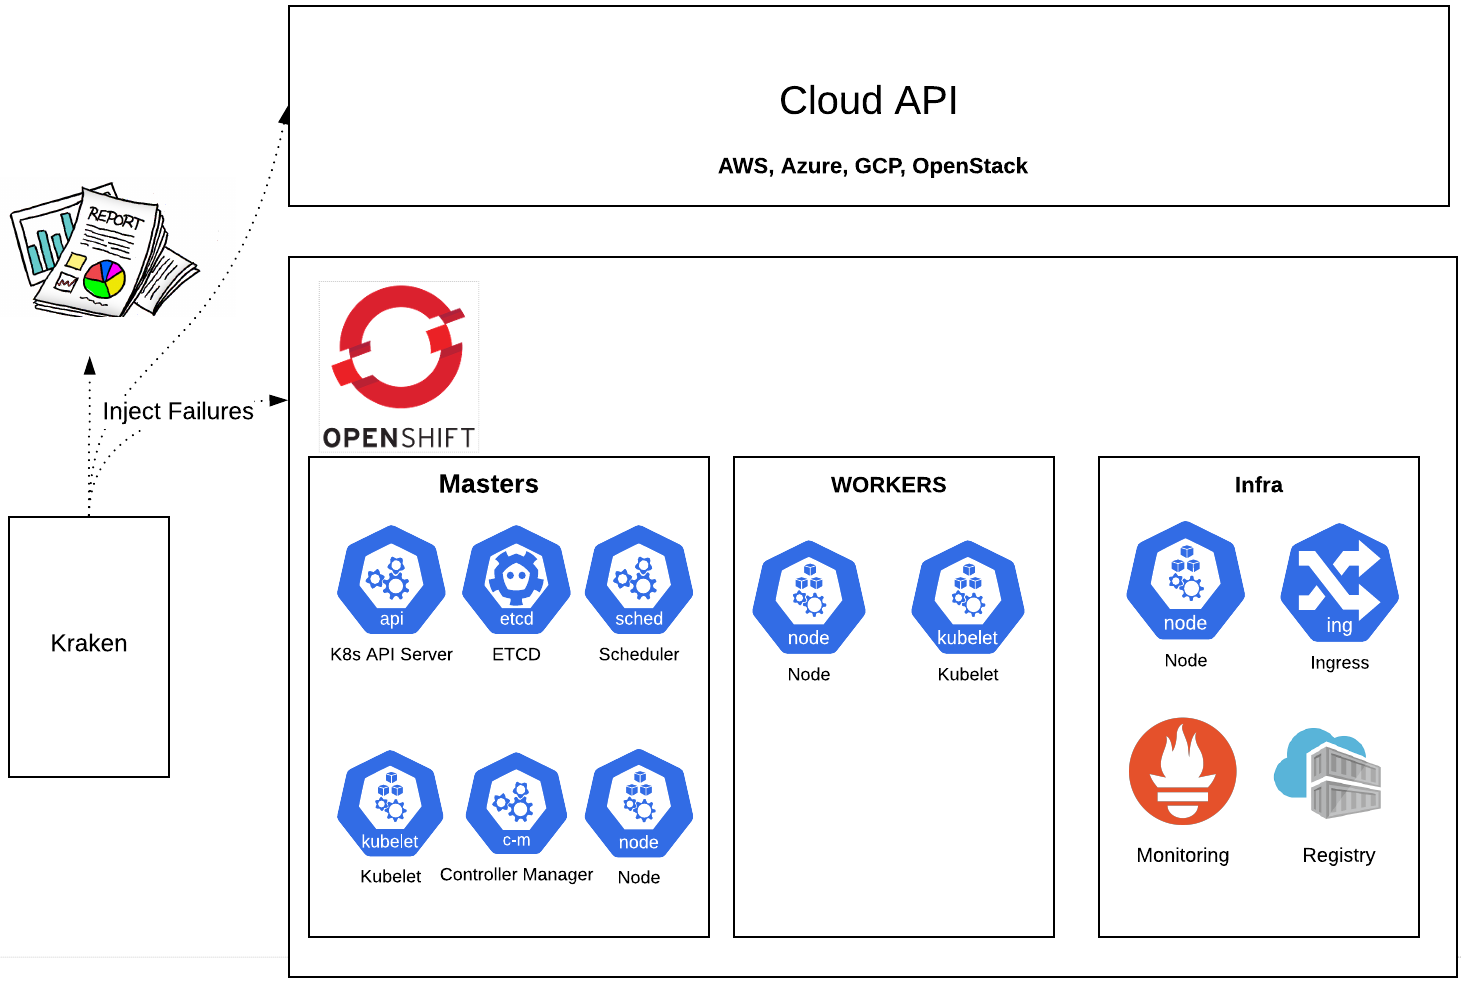
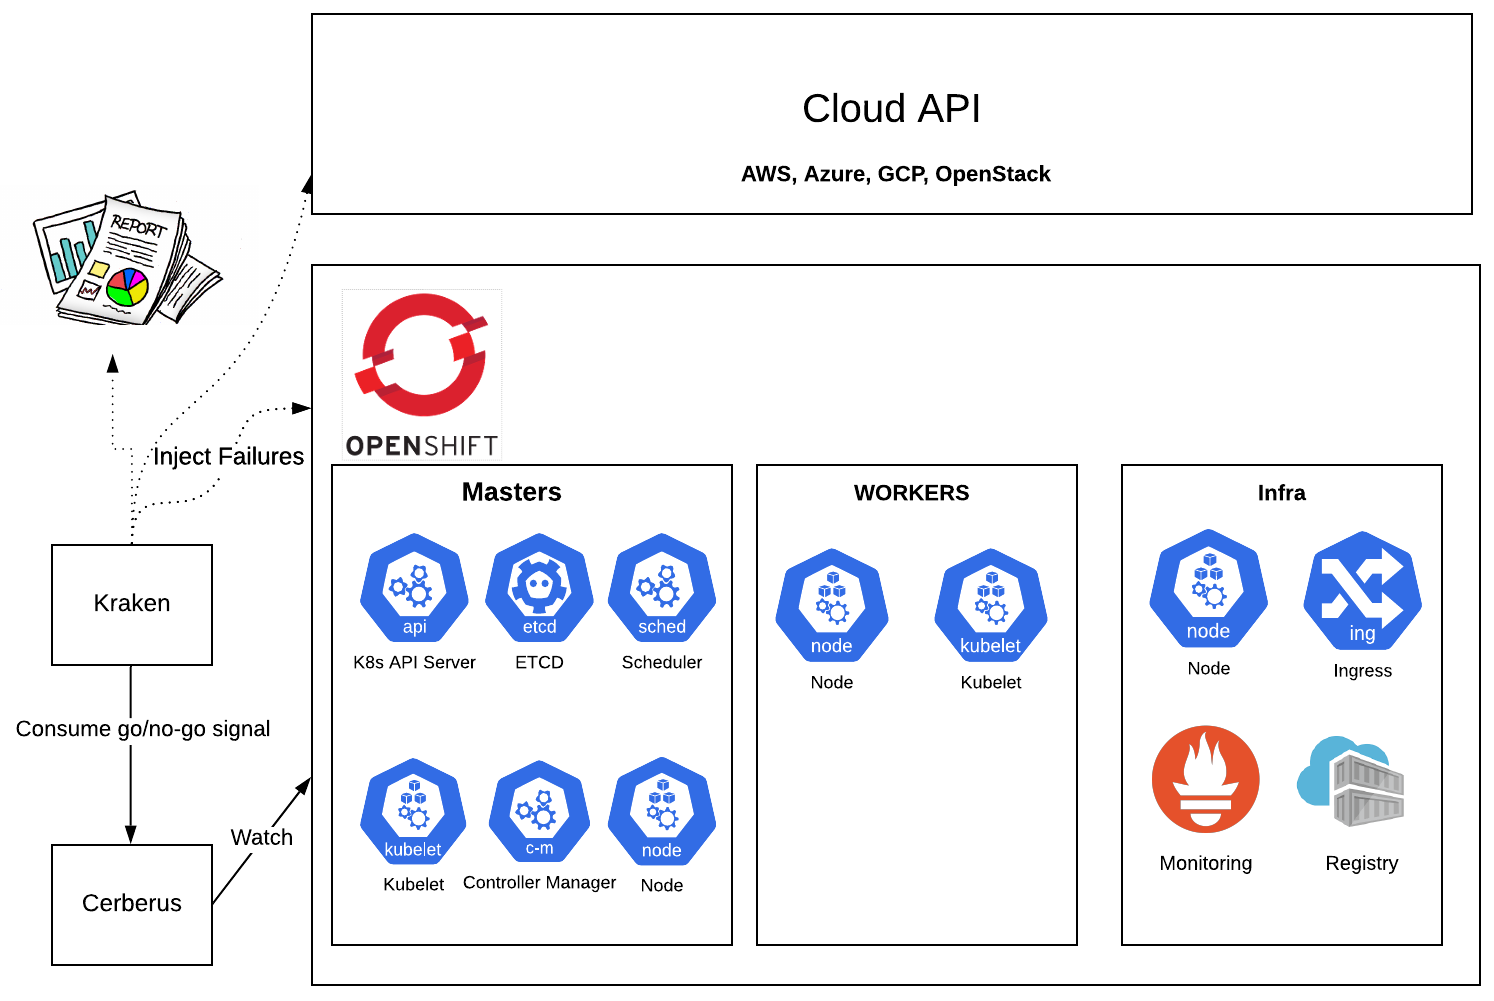
Modify documentation to improve readability
This commit:
- Converts various sections in the readme into individual documents.
- Adds pointers to the public blogs.
- Updates workflow/architecture diagram.
- Adds community info and contributing guidelines.

diff --git a/README.md b/README.md
@@ -1,113 +1,43 @@
 # Kraken
-Chaos and resiliency testing tool for Kubernetes and OpenShift
+Chaos and resiliency testing tool for Kubernetes and OpenShift.
+Kraken injects deliberate failures into Kubernetes/OpenShift clusters to check if it is resilient to turbulent conditions.
 
-Kraken injects deliberate failures into Kubernetes/OpenShift clusters to check if it is resilient to failures.
 
 ### Workflow
 ![Kraken workflow](media/kraken-workflow.png)
 
-### Install the dependencies
-```
-$ pip3 install -r requirements.txt
-```
 
-### Usage
+### Installation and usage
+Instructions on how to setup, configure and run Kraken can be found at [Installation](docs/installation.md).
 
-#### Config
-Set the scenarios to inject and the tunings like duration to wait between each scenario in the config file located at config/config.yaml. Kraken uses [powerfulseal](https://github.com/bloomberg/powerfulseal) tool for pod based scenarios, a sample config looks like:
 
-```
-kraken:
-    kubeconfig_path: /root/.kube/config                    # Path to kubeconfig
-    scenarios:                                             # List of policies/chaos scenarios to load
-        -    scenarios/etcd.yml
-        -    scenarios/openshift-kube-apiserver.yml                           
-        -    scenarios/openshift-apiserver.yml
-    node_scenarios:                                        # List of chaos node scenarios to load
-        -    scenarios/node_scenarios_example.yml
+### Config
+Instructions on how to setup the config and the options supported can be found at [Config](docs/config.md).
 
-tunings:
-    wait_duration: 60                                      # Duration to wait between each chaos scenario 
-```
-
-#### Run
-```
-$ python3 run_kraken.py --config <config_file_location>
-```
-
-#### Run containerized version
-Assuming that the latest docker ( 17.05 or greater with multi-build support ) is intalled on the host, run:
-```
-$ docker pull quay.io/openshift-scale/kraken:latest
-$ docker run --name=kraken --net=host -v <path_to_kubeconfig>:/root/.kube/config -v <path_to_kraken_config>:/root/kraken/config/config.yaml -d quay.io/openshift-scale/kraken:latest
-$ docker logs -f kraken
-```
-
-Similarly, podman can be used to achieve the same:
-```
-$ podman pull quay.io/openshift-scale/kraken
-$ podman run --name=kraken --net=host -v <path_to_kubeconfig>:/root/.kube/config:Z -v <path_to_kraken_config>:/root/kraken/config/config.yaml:Z -d quay.io/openshift-scale/kraken:latest
-$ podman logs -f kraken
-```
-
-If you want to build your own kraken image see [here](https://github.com/openshift-scale/kraken/tree/master/containers/build_own_image-README.md)
-
-#### Report
-The report is generated in the run directory and it contains the information about each chaos scenario injection along with timestamps.
-
-#### Cerberus to help with cluster health checks
-[Cerberus](https://github.com/openshift-scale/cerberus) can be used to monitor the cluster under test and the aggregated go/no-go signal generated by it can be consumed by Kraken to determine pass/fail. This is to make sure the Kubernetes/OpenShift environments are healthy on a cluster level instead of just the targeted components level. It is highly recommended to turn on the Cerberus health check feature avaliable in Kraken after installing and setting up Cerberus. To do that, set cerberus_enabled to True and cerberus_url to the url where Cerberus publishes go/no-go signal in the config file.
 
 ### Kubernetes/OpenShift chaos scenarios supported
-Kraken currently just supports pod and node based scenarios, we will be adding more soon.
+Kraken supports pod and node based scenarios.
 
-#### Node chaos scenarios
-Following node chaos scenarios are supported:
+- [Pod Scenarios](docs/pod_scenarios.md)
 
-1. **node_start_scenario**: scenario to stop the node instance.
-2. **node_stop_scenario**: scenario to stop the node instance.
-3. **node_stop_start_scenario**: scenario to stop and then start the node instance.
-4. **node_termination_scenario**: scenario to terminate the node instance.
-5. **node_reboot_scenario**: scenario to reboot the node instance.
-6. **stop_kubelet_scenario**: scenario to stop the kubelet of the node instance.
-7. **stop_start_kubelet_scenario**: scenario to stop and start the kubelet of the node instance.
-8. **node_crash_scenario**: scenario to crash the node instance.
-
-**NOTE**: If the node doesn't recover from the node_crash_scenario injection, reboot the node to get it back to Ready state.
-
-**NOTE**: node_start_scenario, node_stop_scenario, node_stop_start_scenario, node_termination_scenario, node_reboot_scenario and stop_start_kubelet_scenario are supported only on AWS as of now.
-
-**NOTE**: With AWS as the cloud type, make sure [AWS CLI](https://docs.aws.amazon.com/cli/latest/userguide/install-cliv2.html) is installed.
-
-Node scenarios can be injected by placing the node scenarios config files under node_scenarios option in the kraken config. Refer to [node_scenarios_example](https://github.com/openshift-scale/kraken/blob/master/scenarios/node_scenarios_example.yml) config file.
+- [Node Scenarios](docs/node_scenarios.md)
 
 
-```
-node_scenarios:
-  - actions:                                                        # node chaos scenarios to be injected
-    - node_stop_start_scenario
-    - stop_start_kubelet_scenario
-    - node_crash_scenario
-    node_name:                                                      # node on which scenario has to be injected
-    label_selector: node-role.kubernetes.io/worker                  # when node_name is not specified, a node with matching label_selector is selected for node chaos scenario injection
-    instance_kill_count: 1                                          # number of times to inject each scenario under actions
-    timeout: 120                                                    # duration to wait for completion of node scenario injection
-    cloud_type: aws                                                 # cloud type on which Kubernetes/OpenShift runs
-  - actions:
-    - node_reboot_scenario
-    node_name:
-    label_selector: node-role.kubernetes.io/infra
-    instance_kill_count: 1
-    timeout: 120
-    cloud_type: aws
-```
+### Kraken scenario pass/fail criteria and report
+It's important to make sure to check if the targeted component recovered from the chaos injection and also if the Kubernetes/OpenShift cluster is healthy as failures in one component can have an adverse impact on other components. Kraken does this by:
+- Having built in checks for pod and node based scenarios to ensure the expected number of replicas and nodes are up. It also supports running custom scripts with the checks.
+- Leveraging [Cerberus](https://github.com/openshift-scale/cerberus) to monitor the cluster under test and consuming the aggregated go/no-go signal to determine pass/fail. It is highly recommended to turn on the Cerberus health check feature avaliable in Kraken. Instructions on installing and setting up Cerberus can be found [here](https://github.com/openshift-scale/cerberus#installation). Once Cerberus is up and running, set cerberus_enabled to True and cerberus_url to the url where Cerberus publishes go/no-go signal in the Kraken config file.
 
-#### Pod chaos scenarios
-Following are the components of Kubernetes/OpenShift for which a basic chaos scenario config exists today. Adding a new pod based scenario is as simple as adding a new config under scenarios directory and defining it in the config.
 
-Component                | Description                                                                                        | Working
------------------------- | ---------------------------------------------------------------------------------------------------| ------------------------- |
-Etcd                     | Kills a single/multiple etcd replicas for the specified number of times in a loop                  | :heavy_check_mark:        |
-Kube ApiServer           | Kills a single/multiple kube-apiserver replicas for the specified number of times in a loop        | :heavy_check_mark:        |
-ApiServer                | Kills a single/multiple apiserver replicas for the specified number of times in a loop             | :heavy_check_mark:        |
-Prometheus               | Kills a single/multiple prometheus replicas for the specified number of times in a loop            | :heavy_check_mark:        |
+### Blogs and other useful resources
+- https://www.openshift.com/blog/introduction-to-kraken-a-chaos-tool-for-openshift/kubernetes
+
+
+### Contributions
+We are always looking for more enhancements, fixes to make it better, any contributions are most welcome. Feel free to report or work on the issues filed on github. 
+
+
+### Community
+Key Members(slack_usernames): paigerube14, rook, mffiedler, mohit, dry923, rsevilla, ravi
+* [**#sig-scalability on Kubernetes Slack**](https://kubernetes.slack.com)
+* [**#forum-perfscale on CoreOS Slack**](https://coreos.slack.com)

diff --git a/docs/node_scenarios.md b/docs/node_scenarios.md
@@ -1,0 +1,43 @@
+### Node Scenarios
+
+Following node chaos scenarios are supported:
+
+1. **node_start_scenario**: scenario to stop the node instance.
+2. **node_stop_scenario**: scenario to stop the node instance.
+3. **node_stop_start_scenario**: scenario to stop and then start the node instance.
+4. **node_termination_scenario**: scenario to terminate the node instance.
+5. **node_reboot_scenario**: scenario to reboot the node instance.
+6. **stop_kubelet_scenario**: scenario to stop the kubelet of the node instance.
+7. **stop_start_kubelet_scenario**: scenario to stop and start the kubelet of the node instance.
+8. **node_crash_scenario**: scenario to crash the node instance.
+
+**NOTE**: If the node doesn't recover from the node_crash_scenario injection, reboot the node to get it back to Ready state.
+
+**NOTE**: node_start_scenario, node_stop_scenario, node_stop_start_scenario, node_termination_scenario, node_reboot_scenario and stop_start_kubelet_scenario are supported only on AWS as of now.
+
+**NOTE**: AWS is the only cloud platform supported as of today but we are looking into adding more. Make sure [AWS CLI](https://docs.aws.amazon.com/cli/latest/userguide/install-cliv2.html) is installed.
+
+**NOTE**: The `stop_start_kubelet_scenario` and `node_crash_scenario` scenarios are supported as they are independent of the cloud platform.
+
+
+Node scenarios can be injected by placing the node scenarios config files under node_scenarios option in the kraken config. Refer to [node_scenarios_example](https://github.com/openshift-scale/kraken/blob/master/scenarios/node_scenarios_example.yml) config file.
+
+```
+node_scenarios:
+  - actions:                                                        # node chaos scenarios to be injected
+    - node_stop_start_scenario
+    - stop_start_kubelet_scenario
+    - node_crash_scenario
+    node_name:                                                      # node on which scenario has to be injected
+    label_selector: node-role.kubernetes.io/worker                  # when node_name is not specified, a node with matching label_selector is selected for node chaos scenario injection
+    instance_kill_count: 1                                          # number of times to inject each scenario under actions
+    timeout: 120                                                    # duration to wait for completion of node scenario injection
+    cloud_type: aws                                                 # cloud type on which Kubernetes/OpenShift runs
+  - actions:
+    - node_reboot_scenario
+    node_name:
+    label_selector: node-role.kubernetes.io/infra
+    instance_kill_count: 1
+    timeout: 120
+    cloud_type: aws
+```

diff --git a/docs/installation.md b/docs/installation.md
@@ -1,0 +1,48 @@
+## Installation
+
+Following ways are supported to run Kraken:
+
+- Standalone python program through Git
+- Containerized version using either Podman or Docker as the runtime
+- Kubernetes or OpenShift deployment
+
+**NOTE**: It is recommended to run Kraken external to the cluster ( Standalone or Containerized ) hitting the Kubernetes/OpenShift API as running it internal to the cluster might be disruptive to itself and also might not report back the results if the chaos leads to cluster's API server instability.
+
+### Git
+
+#### Clone the repository
+```
+$ git clone https://github.com/openshift-scale/kraken.git
+$ cd kraken
+```
+
+#### Install the dependencies
+```
+$ pip3 install -r requirements.txt
+```
+
+#### Run
+```
+$ python3 run_kraken.py --config <config_file_location>
+```
+
+### Run containerized version
+Assuming that the latest docker ( 17.05 or greater with multi-build support ) is intalled on the host, run:
+```
+$ docker pull quay.io/openshift-scale/kraken:latest
+$ docker run --name=kraken --net=host -v <path_to_kubeconfig>:/root/.kube/config -v <path_to_kraken_config>:/root/kraken/config/config.yaml -d quay.io/openshift-scale/kraken:latest
+$ docker logs -f kraken
+```
+
+Similarly, podman can be used to achieve the same:
+```
+$ podman pull quay.io/openshift-scale/kraken
+$ podman run --name=kraken --net=host -v <path_to_kubeconfig>:/root/.kube/config:Z -v <path_to_kraken_config>:/root/kraken/config/config.yaml:Z -d quay.io/openshift-scale/kraken:latest
+$ podman logs -f kraken
+```
+
+If you want to build your own kraken image see [here](https://github.com/openshift-scale/kraken/tree/master/containers/build_own_image-README.md)
+
+
+### Run Kraken as a Kubernetes deployment
+Refer [Instructions](https://github.com/openshift-scale/kraken/blob/master/containers/README.md) on how to deploy and run Kraken as a Kubernetes/OpenShift deployment.

diff --git a/docs/pod_scenarios.md b/docs/pod_scenarios.md
@@ -1,0 +1,16 @@
+### Pod Scenarios
+Kraken consumes [Powerfulseal](https://github.com/powerfulseal/powerfulseal) under the hood to run the pod scenarios. 
+
+
+#### Pod chaos scenarios
+Following are the components of Kubernetes/OpenShift for which a basic chaos scenario config exists today. Adding a new pod based scenario is as simple as adding a new config under scenarios directory and defining it in the config.
+
+Component                | Description                                                                                        | Working
+------------------------ | ---------------------------------------------------------------------------------------------------| ------------------------- |
+Etcd                     | Kills a single/multiple etcd replicas for the specified number of times in a loop                  | :heavy_check_mark:        |
+Kube ApiServer           | Kills a single/multiple kube-apiserver replicas for the specified number of times in a loop        | :heavy_check_mark:        |
+ApiServer                | Kills a single/multiple apiserver replicas for the specified number of times in a loop             | :heavy_check_mark:        |
+Prometheus               | Kills a single/multiple prometheus replicas for the specified number of times in a loop            | :heavy_check_mark:        |
+OpenShift System Pods    | kills random pods running in the OpenShift system namespaces                                       | :heavy_check_mark:        |
+
+**NOTE**: [Writing policies](https://powerfulseal.github.io/powerfulseal/policies) can be referred for more information on how to write new scenarios.

diff --git a/docs/config.md b/docs/config.md
@@ -1,14 +1,15 @@
+### Config
+Set the scenarios to inject and the tunings like duration to wait between each scenario in the config file located at config/config.yaml. A sample config looks like:
+
+```
 kraken:
     kubeconfig_path: /root/.kube/config                    # Path to kubeconfig
-    exit_on_failure: False                                 # Exit when a post action scenario fails
     scenarios:                                             # List of policies/chaos scenarios to load
-        - -    scenarios/etcd.yml
-        - -    scenarios/openshift-kube-apiserver.yml
-        - -    scenarios/openshift-apiserver.yml
-        - -    scenarios/regex_openshift_pod_kill.yml
-          -    scenarios/post_action_regex.py
+        -    scenarios/etcd.yml
+        -    scenarios/openshift-kube-apiserver.yml
+        -    scenarios/openshift-apiserver.yml
     node_scenarios:                                        # List of chaos node scenarios to load
-        -   scenarios/node_scenarios_example.yml
+        -    scenarios/node_scenarios_example.yml
 
 cerberus:
     cerberus_enabled: False                                # Enable it when cerberus is previously installed
